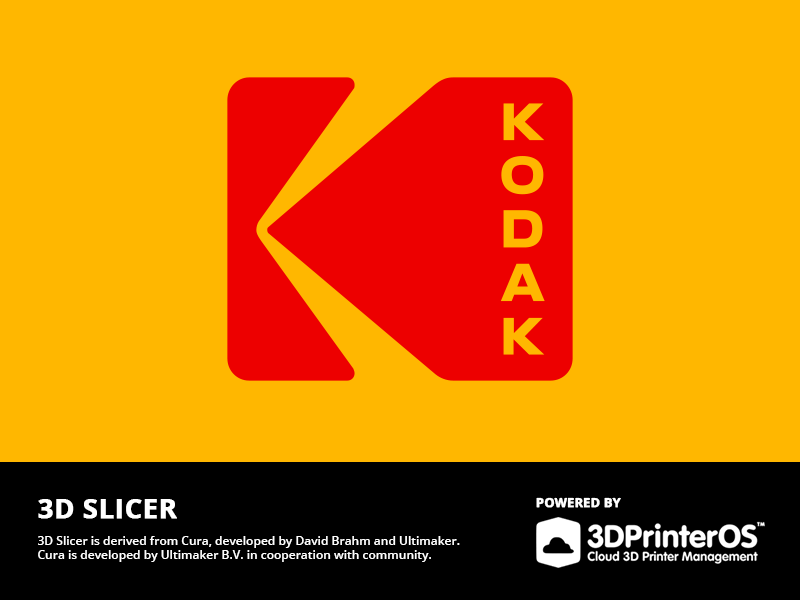
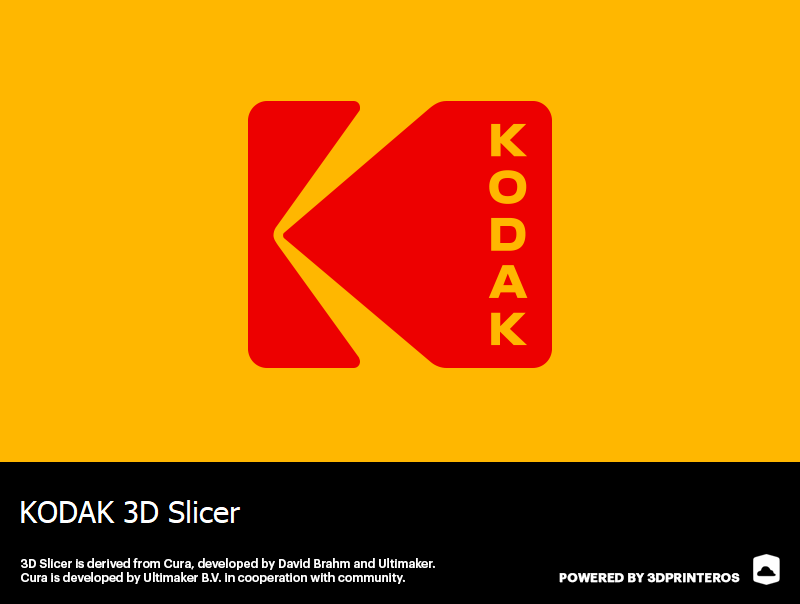
update splashscreen

diff --git a/cura/CuraSplashScreen.py b/cura/CuraSplashScreen.py
@@ -60,9 +60,9 @@ class CuraSplashScreen(QSplashScreen):
         font = QFont()  # Using system-default font here
         font.setPixelSize(30)
         painter.setFont(font)
-        painter.drawText(190, 490, 330 * self._scale, 230 * self._scale, Qt.AlignLeft | Qt.AlignTop, version[0])
+        painter.drawText(250, 493, 330 * self._scale, 230 * self._scale, Qt.AlignLeft | Qt.AlignTop, version[0])
         if len(version) > 1:
-            font.setPixelSize(16)
+            font.setPixelSize(15)
             painter.setFont(font)
             painter.setPen(QColor(200, 200, 200, 255))
             painter.drawText(247, 105, 330 * self._scale, 255 * self._scale, Qt.AlignLeft | Qt.AlignTop, version[1])
